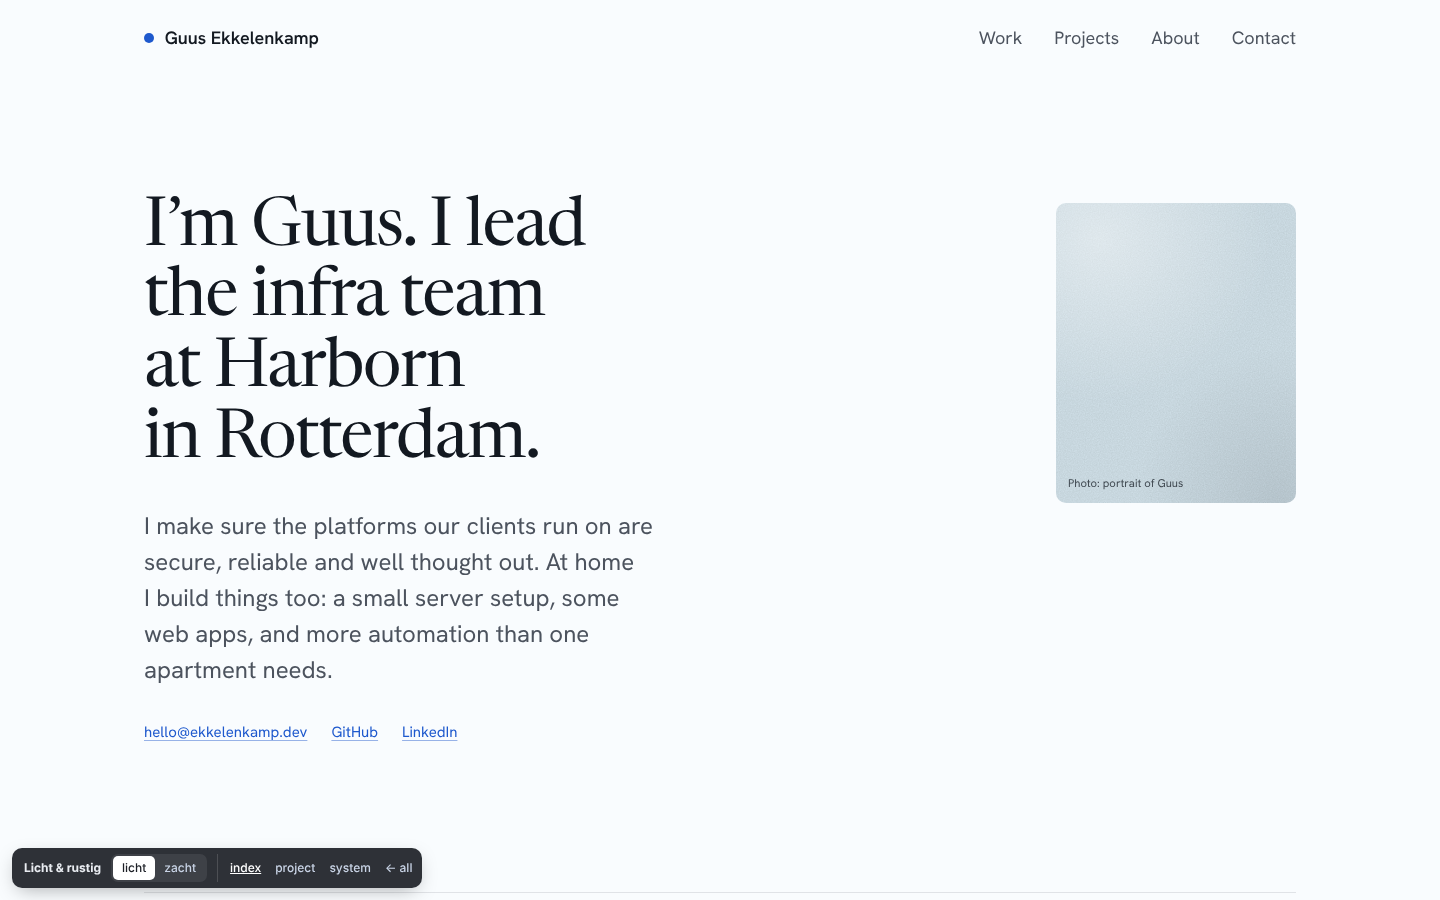
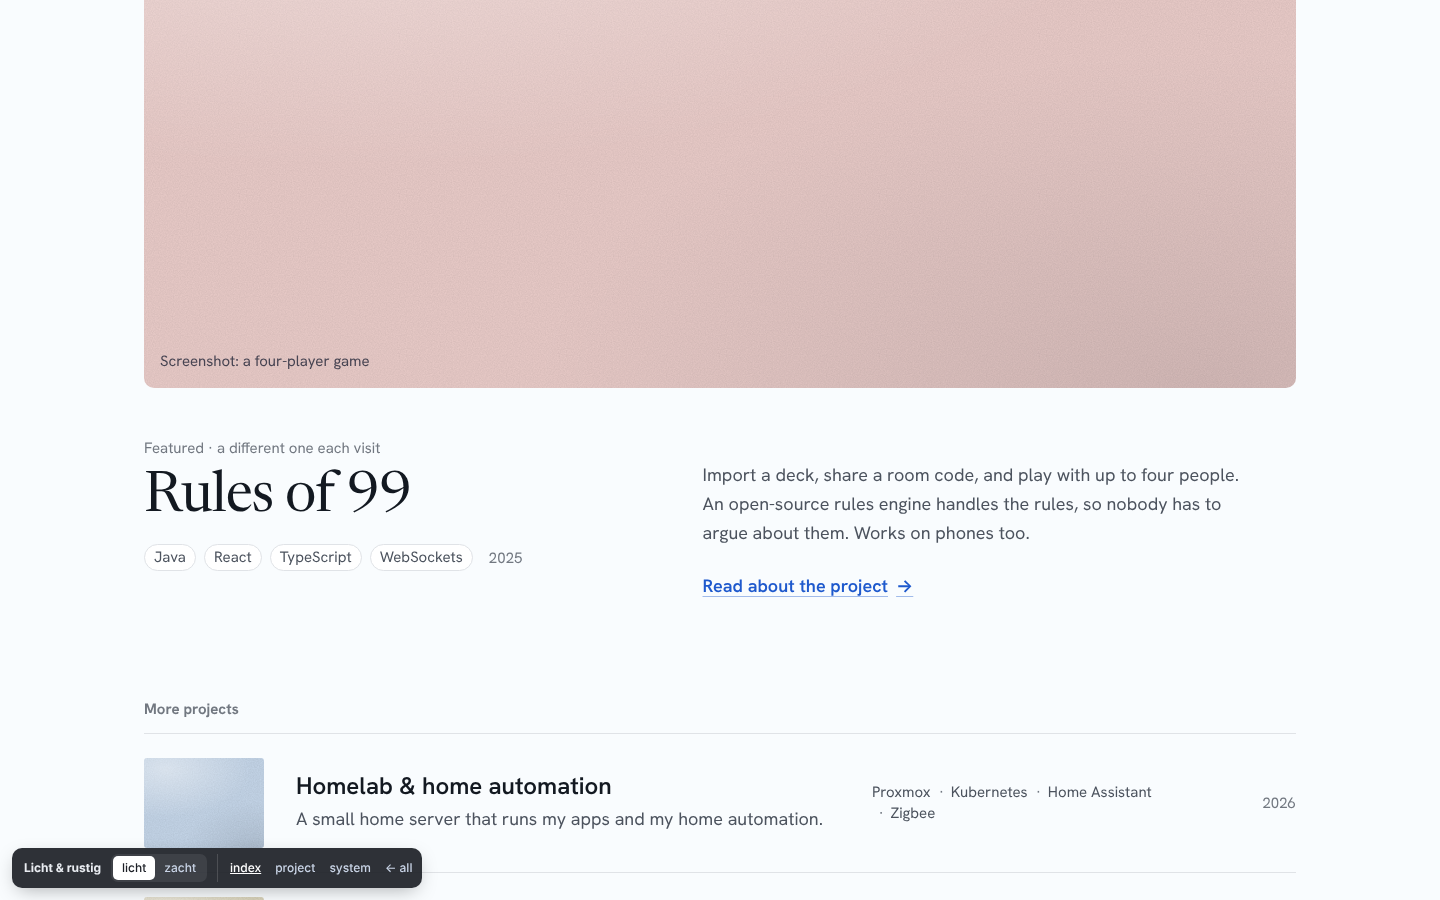
Round 2: add Beeld voorop direction
Claude-Session: https://claude.ai/code/session_01MZiGAcmWGZMW18cgyC5YR7

diff --git a/design/directions/r2-beeld/project.html b/design/directions/r2-beeld/project.html
@@ -66,7 +66,7 @@
         <p class="prose" id="how-text" style="max-width: 62ch">The laptop runs two virtual machines. One runs Kubernetes with my apps; the other runs Home Assistant with a Zigbee stick for the lights and sensors. Nothing is open to the internet; I connect through a private network (Tailscale). When I push code to GitHub, it&rsquo;s built and deployed automatically (Argo CD).</p>
         <figure class="diagram" aria-describedby="how-text">
           <div class="diagram__box"><h4>Me</h4><p>Phone or laptop, anywhere</p></div>
-          <div class="diagram__arrow">Tailscale <span aria-hidden="true">&rarr;</span><br><span class="visually-hidden">private network to the laptop</span></div>
+          <div class="diagram__arrow">Tailscale <span aria-hidden="true"><span class="arr-h">&rarr;</span><span class="arr-v">&darr;</span></span><br><span class="visually-hidden">private network to the laptop</span></div>
           <div class="diagram__box diagram__host">
             <h4>The laptop under the TV</h4>
             <div class="diagram__vms">
@@ -74,7 +74,7 @@
               <div class="diagram__box diagram__vm"><h4>VM 2 · Home Assistant</h4><p>Zigbee stick for the lights and sensors</p></div>
             </div>
           </div>
-          <div class="diagram__arrow"><span aria-hidden="true">&larr;</span> deploys<br><span class="visually-hidden">from GitHub</span></div>
+          <div class="diagram__arrow"><span aria-hidden="true"><span class="arr-h">&larr;</span><span class="arr-v">&uarr;</span></span> deploys<br><span class="visually-hidden">from GitHub</span></div>
           <div class="diagram__box"><h4>GitHub</h4><p>I push code, it gets built</p></div>
         </figure>
       </div>

diff --git a/design/directions/r2-beeld/beeld.css b/design/directions/r2-beeld/beeld.css
@@ -301,11 +301,13 @@
   .diagram__host { border-style: solid; border-color: var(--ink); display: grid; gap: var(--space-s); }
   .diagram__vms { display: grid; gap: var(--space-xs); }
   .diagram__vm { border-color: var(--line-strong); background: var(--surface); }
-  .diagram__arrow { color: var(--ink-subtle); text-align: center; line-height: 1.3; }
+  .diagram__arrow { color: var(--ink-muted); text-align: center; line-height: 1.3; }
+  .arr-h { display: none; }
   @media (min-width: 700px) {
     .diagram { grid-template-columns: minmax(0, 1fr) auto minmax(0, 2.8fr) auto minmax(0, 1fr); align-items: center; gap: var(--space-xs); }
     .diagram__vms { grid-template-columns: 1fr 1fr; }
-    .diagram__arrow { writing-mode: horizontal-tb; max-width: 8ch; }
+    .diagram__arrow { max-width: 8ch; }
+    .arr-h { display: inline; } .arr-v { display: none; }
   }
 
   .stats { display: grid; grid-template-columns: repeat(2, minmax(0, 1fr)); gap: var(--space-l) var(--gutter); margin: var(--space-m) 0 0; }

diff --git a/design/directions/r2-licht/style.css b/design/directions/r2-licht/style.css
@@ -321,7 +321,7 @@
   .prow:hover .prow__title .arrow, .prow:focus-visible .prow__title .arrow { opacity: 1; transform: translateX(0); }
   .prow:focus-visible { outline-offset: 2px; border-radius: var(--radius-s); }
   @media (min-width: 860px) {
-    .prow { grid-template-columns: var(--c-thumb-w) minmax(0, 1fr) minmax(0, 18rem) 3.5rem; gap: var(--space-l); --c-thumb-w: 7.5rem; }
+    .prow { grid-template-columns: var(--c-thumb-w) minmax(0, 1fr) minmax(0, 21rem) 3.5rem; gap: var(--space-l); --c-thumb-w: 7.5rem; }
     .prow .ph { grid-row: auto; align-self: center; }
     .prow__side { display: contents; }
     .prow__side > span:empty { display: block; }

diff --git a/design/directions/r2-beeld/README.md b/design/directions/r2-beeld/README.md
@@ -1,0 +1,71 @@
+# r2-beeld · Beeld voorop (image first)
+
+## The idea
+An image-led, editorial portfolio, built the way a photographer's or studio's site would be. Big
+photos do most of the work: a tall portrait next to a short serif headline, a full-bleed image for
+the featured project, and an asymmetric grid of wide, tall and square crops with plain captions
+underneath. Work and About are short text sections between those image moments. There's no concept
+or theme. The quality comes from scale contrast, generous space and calm type.
+
+## Options (tokens only)
+- **`wit`** (default): a near-white, slightly cool gallery background with near-black ink and one
+  quiet ink-blue accent for hover and focus.
+- **`donker`**: a deep, neutral dark gallery wall. The photo tones stay identical (a real photo
+  doesn't change with the background), so the images stand out more.
+
+Switch with the review bar, `?option=wit|donker`, or localStorage (`r2-beeld:option`).
+
+## Type
+- **Instrument Serif** (display, used sparingly): the intro headline, section titles, project
+  titles, the numbers and the email address. It's condensed and elegant, so a big headline sits
+  next to a portrait like a magazine cover line without shouting. It also isn't a "tech" font.
+- **Schibsted Grotesk** (everything else): a newspaper-born sans with sturdy, slightly
+  characterful shapes. It keeps body text and captions clear without looking like a default UI font.
+- Mono falls back to the system stack (no third family is loaded).
+
+## Why it fits Guus
+He asked for "just a normal website", and this is the most normal format there is: pictures of
+the things he made, with a few honest sentences. The serif adds warmth and youth without
+tech decoration, and it lets non-technical friends browse the site like a magazine. His projects
+are real, physical and visual (a laptop under the TV, a wall panel, a game table, a quiz on a phone),
+so photos tell that story better than any diagram-as-decoration.
+
+## What it needs: real photos
+The direction depends on them. Shot list (placeholders already in the right ratio):
+- Portrait of Guus, **4:5**, calm light, plenty of background.
+- Homelab: the setup under the TV (wide, landscape, used full-bleed), the wall panel (4:5), the
+  Zigbee stick on its cable (1:1), and later the three mini PCs in their rack.
+- Screenshots for Rules of 99, 2nd-hand finds, Quizmaster (ideally the quiz on an actual phone)
+  and Scryfall. Present screenshots inside a device or on a plain tonal backdrop so they hold up
+  at large sizes.
+- Optional: a Commander night with friends (About, 3:2). Drop that image if it doesn't exist.
+
+Keep the colour grading consistent (similar white balance, soft light). The placeholder tones
+show the intended mood: muted slate, moss, sand, rose and sea-grey, never saturated.
+
+## How it scales to more projects
+- The featured slot is always one full-bleed image plus the story.
+- The grid repeats a four-slot rhythm on desktop: wide 3:2 (7 columns), tall 4:5 (4 columns,
+  dropped lower), square 1:1, then 4:3, staggered. A trailing single item (5, 9, ... in the grid)
+  or a trailing third item spans the full width at 21:9, so there's never a lonely tile.
+  On tablet it's a staggered two-up layout; on phones a single column.
+- Every project page uses `project.html`'s template: title and meta, full-bleed hero, short
+  sections in a label/text split, an image pair, numbers, lessons and a next-project teaser.
+
+## Build notes
+- Files: `index.html`, `project.html`, `system.html`, `beeld.css` (tokens + components, on top of
+  `../../system/base.css`), `projects.js` (data, templates, rotation), `review.js` (review bar).
+- **Rotation:** `projects.js` holds the five projects (CONTENT §4). On load it picks one at random,
+  or the one in `?featured=<id>`, renders it in the feature layout and lists the rest in order.
+  The HTML ships with the Homelab featured (server-rendered from the same templates), so it
+  reads fine with JS off. In Astro, render the same two templates from a content collection and
+  keep the tiny client-side pick.
+- **Placeholders** (`.ph`): a tonal fill (`--tone-<id>`), a soft light fall-off, inline SVG grain
+  and a "Photo: ..." label. Each has `role="img"` plus a label. For real images, swap the `div` for
+  `<img>` with `width`/`height`, `object-fit: cover`, AVIF/WebP and lazy loading below the fold.
+- Options are attribute-scoped (`[data-option]`), so `system.html` can show both palettes side by
+  side. Contrast ratios there are measured live from the computed tokens.
+- Motion: a slow hover zoom on images (1.025), underline draws on links and nav, arrow nudge on
+  the link button. All of it is cut by `prefers-reduced-motion` through `base.css`.
+- Open copy items: Quizmaster stack and story, the Scryfall stack, LinkedIn URL, Terraform in the
+  tools line, and "Before Harborn" (left out until confirmed).

diff --git a/design/directions/r2-licht/README.md b/design/directions/r2-licht/README.md
@@ -1,0 +1,52 @@
+# r2-licht · Licht & rustig
+
+**The idea.** A light, calm, text-first personal homepage. One left edge, one comfortable
+reading column (40rem), and a few deliberate wider moments (72rem) where images and the
+project list live. Hierarchy comes from type and space, not from boxes: hairlines separate
+sections, a serif headline says who Guus is, a quiet sans does everything else. No concept, no
+decoration; the details are in the hovers (the list thumbnail grows, the title turns accent, an
+arrow slides in), a gentle fade on load, and good focus states.
+
+**Options** (tokens only, `data-option` on `<html>`):
+- `licht` (default): near-white with a hint of blue (#f9fcfe), ink #131921, one clear blue accent (#1e59cd).
+- `zacht`: pale sage ground (#e8f4eb), deep green ink and accent (#005c3b). Same layout.
+
+Both pass AA everywhere and AAA for body text; measured ratios are in `system.html`.
+
+**Fonts.** *Newsreader* (display, regular weight, optical sizing) for the headline, section
+leads and project titles; *Hanken Grotesk* for text and UI. Newsreader at large optical sizes is
+fine and calm rather than "editorial-loud", and set in cool white and blue it avoids the
+cream-serif-terracotta default. Hanken Grotesk is warm and slightly round without being a
+startup sans. Two voices: the serif for what Guus says, the sans for the facts.
+
+**Why it fits Guus.** He asked for "just a normal website". This is that, done carefully: it
+reads like a person, not a product, and it gets out of the way of the projects. It works for a
+recruiter skimming the work section and a friend clicking through the homelab page.
+
+**What it needs.**
+- A real portrait (4:5, natural light, plain background works best on this palette).
+- Real photos/screenshots per project: 16:9 for the feature and the case-page hero, cropped
+  to 4:3 for list thumbnails. Placeholder captions say what to shoot.
+- To confirm: LinkedIn URL, email address, Quizmaster story and stack (it currently has no
+  tags, the layout handles that), Scryfall stack, Terraform in the tools line, and the
+  **years** (only Homelab = 2026 is from the copy; 2025/2026 on the others are placeholders).
+
+**How it scales.** Projects are data (`projects.js`, later an Astro content collection). The
+featured slot and list row are two renderers over the same record. The list is a plain `<ul>`:
+ten projects is still one calm list; past that, add a "show all" or group by year. Every project
+gets `project.html` as its template (back link, title, line, tags, hero, sections, numbers,
+learned, next).
+
+**Build notes.**
+- `style.css` builds on `../../system/base.css` (layers, scales). Tokens in `@layer tokens`;
+  `zacht` only overrides primitives and tones.
+- `projects.js`: data + `render()` + `pick()`. The HTML is server-rendered with Homelab
+  featured (no JS = Homelab). On load it picks at random, or `?featured=<id>`, and swaps the
+  feature + list if different. Nothing is stored. Also works under Node (`module.exports`),
+  which is how the static HTML was generated.
+- `review.js`: review bar option switch (`?option=` → localStorage → `licht`), a radiogroup
+  with arrow keys. Review tooling only; drop it in production.
+- The homelab diagram is HTML/CSS, not SVG: it reflows to 320px and its text stays readable
+  and selectable.
+- Motion: 520ms fade-and-rise on load, 160ms hovers; all off under `prefers-reduced-motion`
+  (via base.css).
